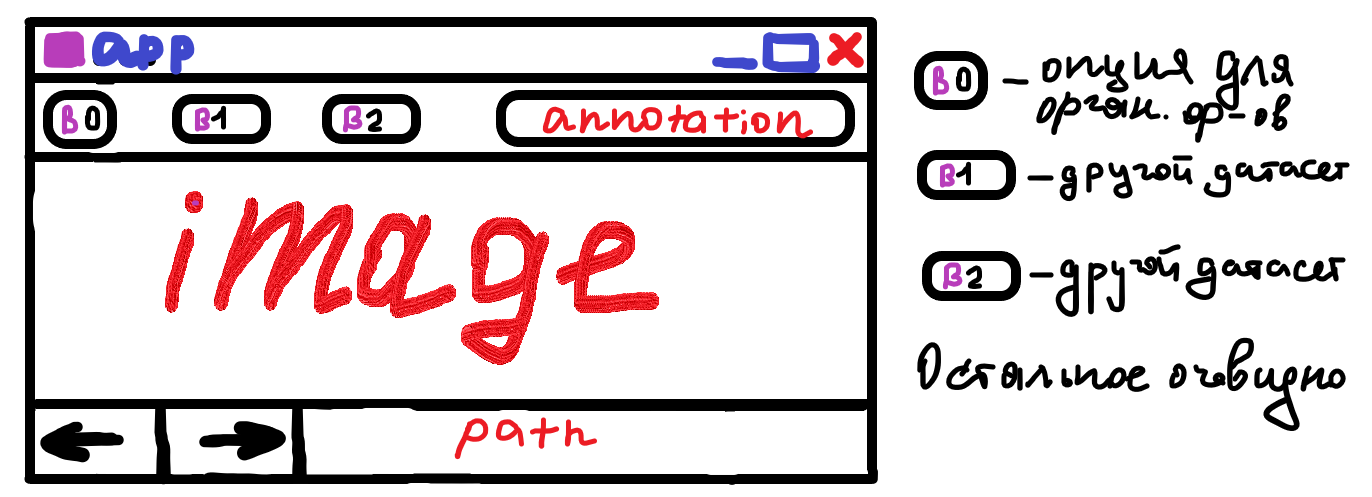
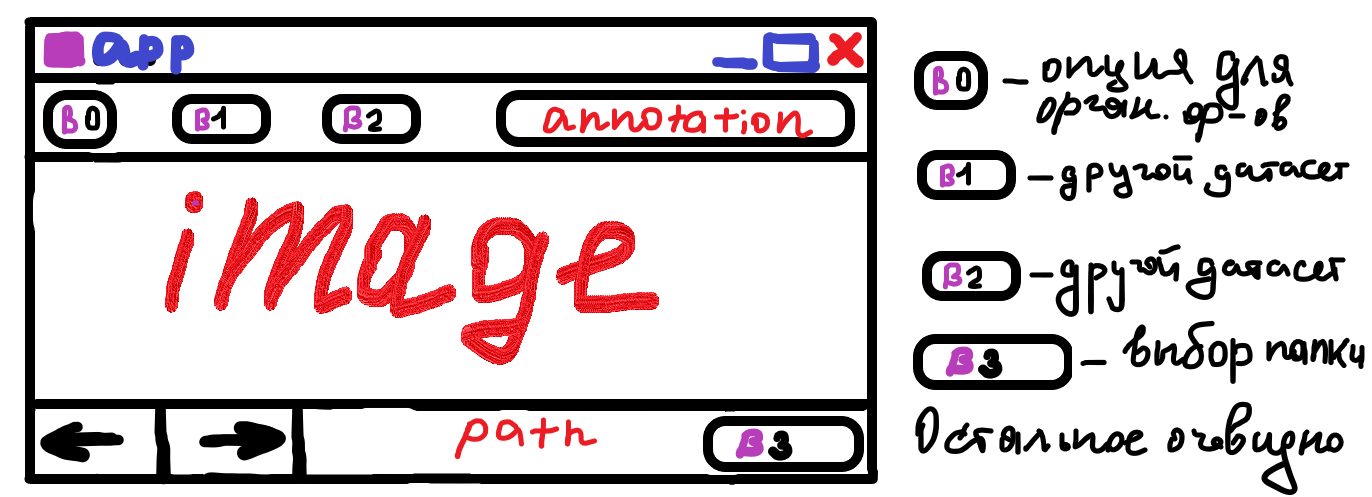
select. a folder, next/prev elem. are workable

Changed region(s): [[0.4898, 0.6338, 1.0, 0.996]]

diff --git a/main.py b/main.py
@@ -2,54 +2,67 @@ import sys
 
 import PyQt5
 from PyQt5 import QtWidgets, QtCore, QtGui
-from PyQt5.QtWidgets import QApplication, QMainWindow, QLabel, QWidget, QPushButton, QMessageBox, QToolBar, QToolTip, QVBoxLayout, QGridLayout
+from PyQt5.QtWidgets import QApplication, QMainWindow, QLabel, QWidget, QPushButton, QMessageBox, QDialog, QVBoxLayout, QLineEdit, QFileDialog, QGridLayout
 from PyQt5.QtCore import Qt
-from PyQt5.QtGui import QPixmap, QIcon
+from PyQt5.QtGui import QPixmap, QIcon, QFont
+
+import sources.lab_2_materials.default_dataset_operations
+import sources.lab_2_materials.united_dataset
+import sources.lab_2_materials.mixed_dataset
+import sources.lab_2_materials.iterator
+
+class Selection_window(QWidget):
+        def __init__(self, executable_task_name: str):
+            window = QMessageBox()
+            window.setWindowTitle(executable_task_name)
+            window.exec_()
 
 class Interface(QMainWindow):
     def __init__(self):
-
-        super(Interface, self).__init__()
+        super().__init__()
+        self.initUI()
+        
+    def initUI(self):
         self.setWindowTitle("ImageMaster")
         self.setWindowIcon(QIcon("sources/icon.png"))
-        self.setGeometry(100, 100, 1600, 800)
 
         self.centralwidget = QWidget()
         self.centralwidget.setObjectName("centralwidget")
-        self.setCentralWidget(self.centralwidget) 
+        self.setCentralWidget(self.centralwidget)
 
-        font = QtGui.QFont()
-        font.setWeight(20)
-        font.setPointSize(17)
-        font.setBold(True)
-
-        self.button_change_end = QtWidgets.QPushButton(text = "End", clicked = self.handle_end_button)
-        self.button_change_end.setFont(font)
-
-        self.button_1 = QtWidgets.QPushButton(text = "Two datasets(ordered)")
-        self.button_1.setFont(font)
-
-        self.button_2 = QtWidgets.QPushButton(text = "Two datasets(mixed)")
-        self.button_2.setFont(font)
-
-        self.button_create_annotation = QtWidgets.QPushButton(text = "Create annotation")
-        self.button_create_annotation.setFont(font)
-
+        self.type_dataset = "single"
         self.window_image = QLabel(self)
         self.image = QPixmap("sources/test_image.png")
         self.image = self.image.scaled(1280, 720, QtCore.Qt.KeepAspectRatio)
         self.window_image.setPixmap(self.image)
         self.window_image.setAlignment(Qt.AlignCenter)
+        
+        self.choose_folder_button = QPushButton(text = "Choose folder", clicked = self.choose_folder)
+        self.choose_folder_button.setFont(QFont("IMPACT", 15))
 
-        self.previous = QPushButton("", self)
+        self.button_change_end = QPushButton(text = "End", clicked = self.handle_end_button)
+        self.button_change_end.setFont(QFont("IMPACT", 18))
+
+        self.button_1 = QPushButton(text = "Two datasets(ordered)")
+        self.button_1.setFont(QFont("IMPACT", 18))
+
+        self.button_2 = QPushButton(text = "Two datasets(mixed)")
+        self.button_2.setFont(QFont("IMPACT", 18))
+    
+        self.button_create_annotation = QtWidgets.QPushButton(text = "Create annotation")
+        self.button_create_annotation.setFont(QFont("IMPACT", 18))
+
+        self.previous = QPushButton(text = "", clicked = self.option_previous)
         self.previous.setIcon(QtGui.QIcon("sources/left-arrow.png"))
+        self.previous.setFixedSize(50, 50)
 
-        self.next = QPushButton("", self)
+        self.next = QPushButton(text = "", clicked = self.option_next)
         self.next.setIcon(QtGui.QIcon("sources/right-arrow.png"))
+        self.next.setFixedSize(50, 50)
 
         self.file_path = QLabel(self)
         self.file_path.setText("PATH")
-        self.file_path.setFont(font)
+        self.file_path.setFont(QFont("IMPACT", 22))
         self.file_path.setAlignment(Qt.AlignCenter)
 
         self.layout = QGridLayout(self.centralwidget)
@@ -60,14 +73,43 @@ class Interface(QMainWindow):
         self.layout.addWidget(self.window_image, 1, 0, 4, 5)
         self.layout.addWidget(self.previous, 5, 0)
         self.layout.addWidget(self.next, 5, 1)
-        self.layout.addWidget(self.file_path, 5, 2, 1, 3)
+        self.layout.addWidget(self.file_path, 5, 2, 1, 2)
+        self.layout.addWidget(self.choose_folder_button, 5, 4)
 
+        self.show()
+
+    def choose_folder(self):
+        self.folderpath = QtWidgets.QFileDialog.getExistingDirectory(self, "Select folder", "")
+        self.iterator = sources.lab_2_materials.iterator.Iterator(self.folderpath)
+        self.image = QPixmap(next(self.iterator))
+        self.image = self.image.scaled(1280, 720, QtCore.Qt.KeepAspectRatio)
+        self.window_image.setPixmap(self.image)
+        self.window_image.setAlignment(Qt.AlignCenter)
+
+    def option_next(self):
+        self.image = QPixmap(next(self.iterator))
+        self.image = self.image.scaled(1280, 720, QtCore.Qt.KeepAspectRatio)
+        self.window_image.setPixmap(self.image)
+        self.window_image.setAlignment(Qt.AlignCenter)
+
+    def option_previous(self):
+        try:
+            self.image = QPixmap(self.iterator.previous())
+            self.image = self.image.scaled(1280, 720, QtCore.Qt.KeepAspectRatio)
+            self.window_image.setPixmap(self.image)
+            self.window_image.setAlignment(Qt.AlignCenter)
+        except StopIteration:
+            self.iterator.counter += 1
+            error = QMessageBox()
+            error.setWindowTitle("Problem")
+            error.setText("This action cannot be performed now")
+            error.setInformativeText("There is no element behind")
+            error.exec_()
 
     def handle_end_button(self):
-        button = self.sender()
-        if button is not None:
-            text = button.text()
-            button.setText("Cycle" if text == "End" else "End")
+        if self.button_change_end is not None:
+            text = self.button_change_end.text()
+            self.button_change_end.setText("Cycle" if text == "End" else "End")
 
 
 stylesheet = """
@@ -82,7 +124,6 @@ def application():
     app = QApplication(sys.argv)
     app.setStyleSheet(stylesheet)
     window = Interface()
-    window.show()
     sys.exit(app.exec_())
 
 if __name__ == "__main__":

diff --git a/sources/lab_2_materials/united_dataset.py b/sources/lab_2_materials/united_dataset.py
@@ -1,0 +1,55 @@
+import os
+import shutil
+import csv
+
+
+from sources.lab_2_materials.default_dataset_operations import create_file
+
+
+def make_folder(name: str) -> None:
+    """
+    This function create a new folder with specified by user name
+    if it is not exist. If the folder exists, function do nothing
+    """
+    if not os.path.isdir(name):
+        os.mkdir(name)
+
+
+def copy_dataset(dataset: str) -> None:
+    """
+    This function create a copy of dataset with a specified name
+    """
+    make_folder("copied_dataset")
+    animal_types = os.listdir(f"dataset")
+    for animal_type in animal_types:
+        animals = os.listdir(os.path.join("dataset", animal_type))
+        for animal_photo in animals:
+            shutil.copyfile(os.path.join(os.path.join("dataset", animal_type), animal_photo), os.path.join(
+                "copied_dataset", f"{animal_type}_{animal_photo}"))
+
+
+def input_data(file_name: str) -> None:
+    """
+    This function add file paths from folder into the created csv-file
+    """
+    full_path = os.path.abspath("copied_dataset")
+    animals = os.listdir("copied_dataset")
+    relative_path = os.path.relpath("copied_dataset")
+    with open(file_name, "a", newline="") as file:
+        file_writer = csv.writer(file, delimiter=",", lineterminator='\r')
+        for animal in animals:
+            file_writer.writerow(
+                [os.path.join(full_path, animal),
+                 os.path.join(relative_path, animal),
+                 animal]
+            )
+
+
+def main() -> None:
+    copy_dataset("dataset")
+    create_file("annotation2.csv")
+    input_data("annotation2.csv")
+
+
+if __name__ == "__main__":
+    main()

diff --git a/sources/lab_2_materials/mixed_dataset.py b/sources/lab_2_materials/mixed_dataset.py
@@ -1,0 +1,45 @@
+import os
+import shutil
+import csv
+from random import sample
+
+
+from sources.lab_2_materials.united_dataset import create_file, make_folder
+
+
+def copy_and_rename_dataset() -> None:
+    """
+    This function create a copy of specified dataset
+    """
+    random_number = sample(list(range(10000)), 5000)
+    make_folder("second_copied_dataset")
+    full_path = os.path.abspath("second_copied_dataset")
+    relative_path = os.path.relpath("second_copied_dataset")
+    animal_types = os.listdir("dataset")
+    counter = 0
+    for animal_type in animal_types:
+        animals = os.listdir(os.path.join("dataset", animal_type))
+        for animal_photo in animals:
+            random_name = str(random_number[counter]).zfill(5)
+            shutil.copyfile(os.path.join(os.path.join("dataset", animal_type), animal_photo),
+                            os.path.join("second_copied_dataset", random_name + ".jpg"))
+            with open("annotation3.csv", 'a', newline='') as file:
+                file_writer = csv.writer(
+                    file, delimiter=",", lineterminator='\r')
+                file_writer.writerow(
+                    [os.path.join(full_path, random_name),
+                     os.path.join(relative_path, random_name),
+                     animal_type]
+                )
+                counter += 1
+
+
+def main() -> None:
+    if os.path.isdir("second_copied_dataset"):
+        shutil.rmtree("second_copied_dataset")
+    create_file("annotation3.csv")
+    copy_and_rename_dataset()
+
+
+if __name__ == "__main__":
+    main()

diff --git a/sources/lab_2_materials/default_dataset_operations.py b/sources/lab_2_materials/default_dataset_operations.py
@@ -1,0 +1,38 @@
+import os
+import csv
+
+
+def input_data(file_name: str, type: str) -> None:
+    """
+    This function add file paths from folder into the created csv-file
+    """
+    full_path = os.path.abspath("dataset")
+    animals = os.listdir(os.path.join(full_path, type))
+    relative_path = os.path.relpath("dataset")
+    with open(file_name, "a", newline="") as file:
+        file_writer = csv.writer(file, delimiter=",", lineterminator='\r')
+        for animal in animals:
+            file_writer.writerow(
+                [os.path.join(full_path, type, animal),
+                 os.path.join(relative_path, type, animal),
+                 animal]
+            )
+
+
+def create_file(file_name: str) -> None:
+    """
+    This function create a new csv-file (or rewrite existed) with specified by user name
+    """
+    with open(file_name, 'w') as file:
+        file_writer = csv.writer(file, delimiter=",", lineterminator="\r")
+        file_writer.writerow(["Absolute path", "Relative path", "Type"])
+
+
+def main() -> None:
+    create_file("annotation1.csv")
+    input_data("annotation1.csv", "bay_horse")
+    input_data("annotation1.csv", "zebra")
+
+
+if __name__ == "__main__":
+    main()

diff --git a/sources/lab_2_materials/iterator.py b/sources/lab_2_materials/iterator.py
@@ -1,0 +1,34 @@
+import os
+
+
+class Iterator:
+    def __init__(self, path: str) -> None:
+        """
+        Constructor of iterator
+        """
+        self.data = path
+        self.folder_element = os.listdir(self.data)
+        self.limit = len(self.folder_element)
+        self.counter = 0
+
+    def __next__(self) -> str:
+        """
+        This method return absolute path of next element from dataset
+        """
+        if self.counter < self.limit:
+            absolute_path = os.path.join(self.data, self.folder_element[self.counter])
+            self.counter += 1
+            return absolute_path
+        else:
+            raise StopIteration
+        
+    def previous(self) -> str:
+        """
+        This method return absolute path of previous element from dataset
+        """
+        if self.counter > 0:
+            self.counter -= 1
+            absolute_path = os.path.join(self.data, self.folder_element[self.counter])
+            return absolute_path
+        else:
+            raise StopIteration
